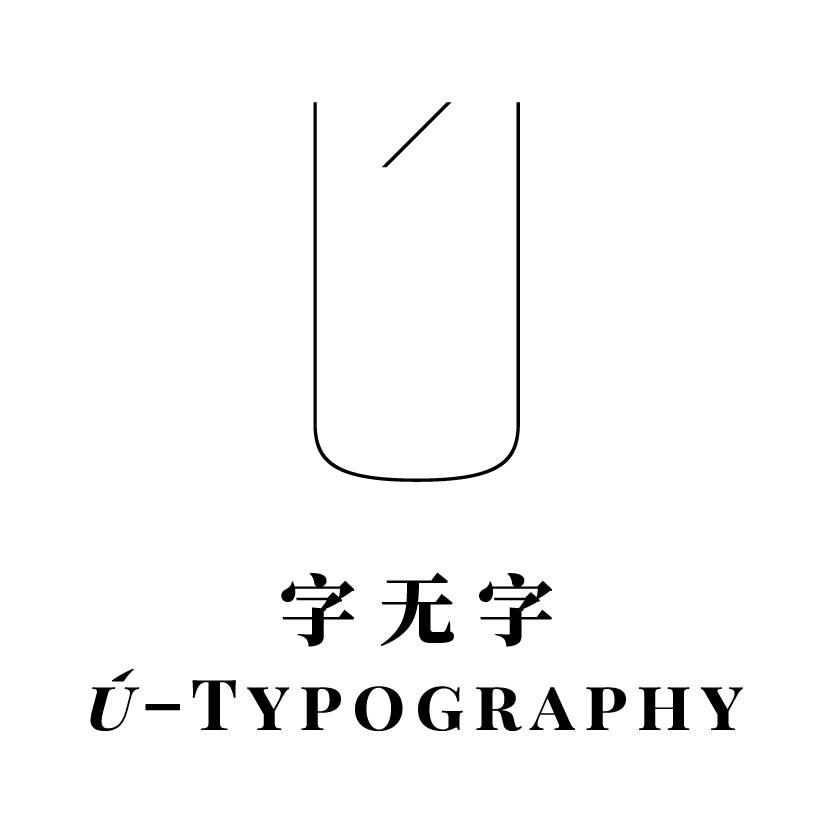
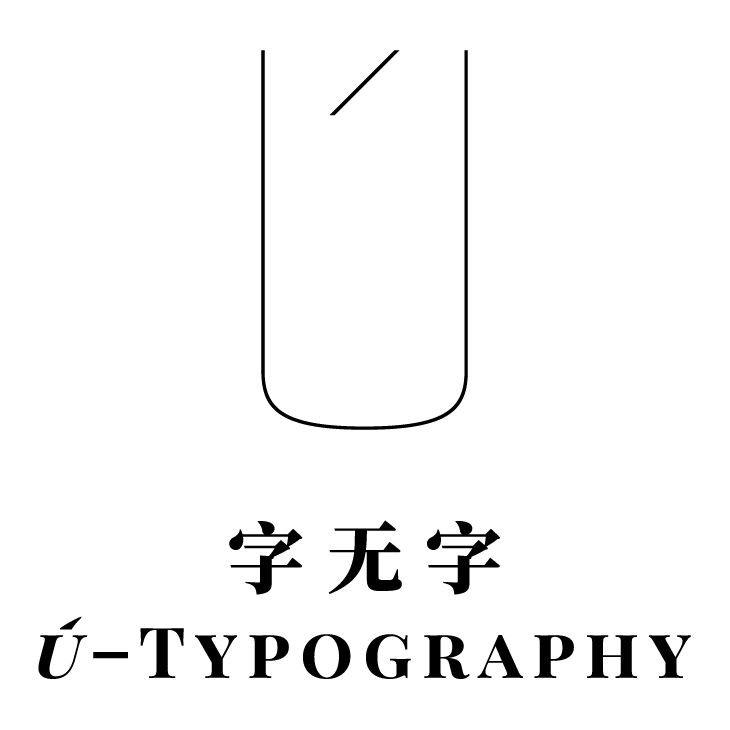
修改

diff --git a/styles/style-index.css b/styles/style-index.css
@@ -359,12 +359,11 @@ html {
 
 #logomark {
 	width: fit-content;
-	margin: 140px auto 60px;
+	margin: 140px auto 80px;
 	display: block;
 }
 #logo {
-	width: 360px;
-
+	width: 320px;
 	display: block;
 }
 #briefIntroduction-Button {
@@ -376,7 +375,7 @@ html {
 	margin-top: 3rem;
 	background-color: var(--colour-paper);
 	transition: all 200ms ease-in-out;
-	padding: 0 1rem;
+	padding: 0 0.8rem;
 	border-radius: 1rem;
 }
 
@@ -703,7 +702,7 @@ li a:active {
 	transition: all 10ms ease-in-out;
 }
 /* 用于不支持鼠标悬浮的触摸屏 */
-@media (hover: none) {
+/* @media (hover: none) {
 	li a {
 		background: linear-gradient(135deg, var(--colour-3), var(--colour-2))
 			no-repeat;
@@ -711,7 +710,7 @@ li a:active {
 		background-position: left 0 bottom 2px;
 		transition: all 200ms ease-in-out;
 	}
-}
+} */
 
 h2 {
 	font-family: var(--font-hei);
@@ -790,7 +789,7 @@ footer {
 	font-size: 0.75rem;
 	line-height: 1.25rem;
 	width: 36rem;
-	margin: 0 auto;
+	margin: 0 auto 4rem;
 	border: 1px black solid;
 	padding: 2rem 3rem;
 }
@@ -922,7 +921,7 @@ h-char.bd-end.bd-jiya + .PoZheHao::before {
 	text-shadow: 0.01em 0.018em, -0.01em -0.018em;
 }
 /* 拉丁文本 */
-.Latin{
+.Latin {
 	font-family: var(--font-sans);
 	font-weight: 400;
 	hyphens: auto;
@@ -1030,12 +1029,30 @@ h-hws[hidden] {
 		width: 30rem;
 		margin: 0 auto;
 	}
+	#logomark {
+		margin: 130px auto 70px;
+		}
+	#logo{
+		width: 270px;
+	}
 	#mainContent {
 		width: 30rem;
 		left: 0rem;
 	}
 	#briefIntroduction-Button {
 		margin-top: 3rem;
+		padding: 0 0.6rem;
+	}
+	#briefIntroduction {
+		font-size: 0.8rem;
+		margin-left: 14px;
+		padding-bottom: 20px;
+	}
+	.singleCharacter {
+		width: 18px;
+		height: 18px;
+		margin-right: 14px;
+		margin-top: 20px;
 	}
 	/* section {
 		margin: 0rem 0;
@@ -1092,10 +1109,10 @@ h-hws[hidden] {
 	}
 }
 @media screen and (min-width: 668px) and (max-width: 1100px) and (hover: none) {
-	#briefIntroduction-Button {
+	/* #briefIntroduction-Button {
 		margin-top: 2rem;
 		margin-bottom: -1rem;
-	}
+	} */
 }
 /* 【3】############################# */
 @media screen and (max-width: 668px) {
@@ -1111,12 +1128,12 @@ h-hws[hidden] {
 		left: 0rem;
 		box-shadow: 0 0 8px var(--colour-shadow);
 	}
-#logo{
-	width: 270px;
-}
-#logomark{
-	margin: 50px auto 20px;
-}
+	#logo {
+		width: 240px;
+	}
+	#logomark {
+		margin: 90px auto 50px;
+	}
 	/* #logomark {
 		height: 32px;
 		width: auto;
@@ -1159,18 +1176,18 @@ h-hws[hidden] {
 		margin-top: 2rem;
 		margin-bottom: 1rem;
 		border-radius: 0.5rem;
-		padding: 0 0.3rem;
+		padding: 0 0.1rem;
 	}
 	#briefIntroduction {
-		margin-left: 10px;
+		margin-left: 11px;
 		padding-bottom: 15px;
-		font-size: 0.8rem;
+		font-size: 0.75rem;
 	}
 	.singleCharacter {
-		margin-right: 10px;
+		margin-right: 11px;
 		margin-top: 15px;
-		width: 18px;
-		height: 18px;
+		width: 17px;
+		height: 17px;
 	}
 
 	/* section {
@@ -1245,12 +1262,12 @@ h-hws[hidden] {
 	}
 }
 @media screen and (max-width: 668px) and (hover: none) {
-	#briefIntroduction-Button {
+	/* #briefIntroduction-Button {
 		margin-top: 5rem;
 		margin-bottom: -1rem;
 	}
 	#briefIntroduction-Button:hover::after {
 		width: 50%;
 		left: 25%;
-	}
+	} */
 }
